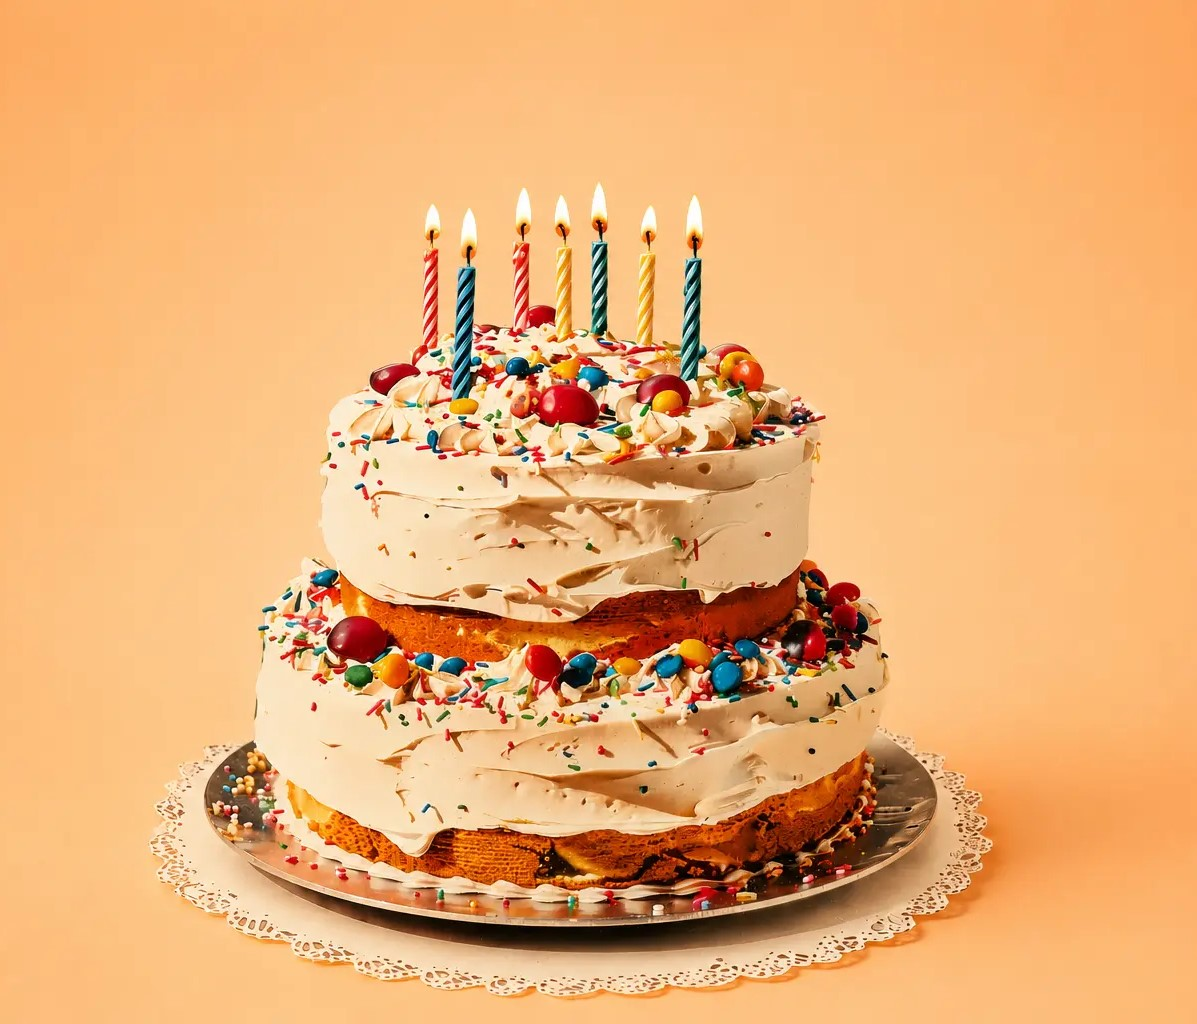
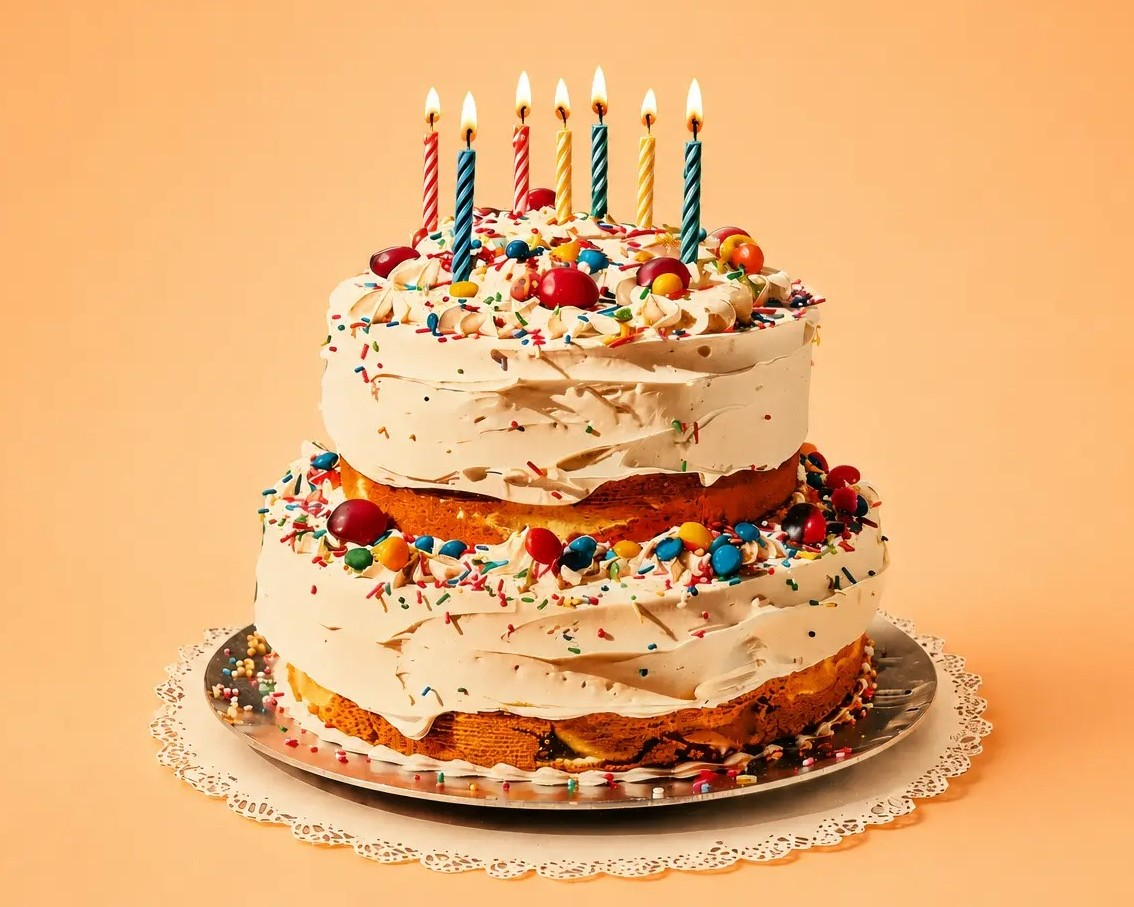
style: refine hero anchors and homepage section order

diff --git a/src/components/RabbitAssistant.tsx b/src/components/RabbitAssistant.tsx
@@ -1,21 +1,43 @@
 'use client'
 
-import { useState, useEffect, startTransition } from 'react'
+import { useState, useEffect, useRef, startTransition } from 'react'
 import Image from 'next/image'
 import { usePathname } from 'next/navigation'
 
 export default function RabbitAssistant() {
   const pathname = usePathname()
   const [mounted, setMounted] = useState(false)
+  const [scrollY, setScrollY] = useState(0)
+  const rafRef = useRef<number | null>(null)
 
   useEffect(() => {
     startTransition(() => { setMounted(true) })
   }, [])
 
+  useEffect(() => {
+    const onScroll = () => {
+      if (rafRef.current) return
+      rafRef.current = requestAnimationFrame(() => {
+        setScrollY(window.scrollY)
+        rafRef.current = null
+      })
+    }
+    window.addEventListener('scroll', onScroll, { passive: true })
+    return () => {
+      window.removeEventListener('scroll', onScroll)
+      if (rafRef.current) cancelAnimationFrame(rafRef.current)
+    }
+  }, [])
+
   if (!mounted || pathname.startsWith('/admin')) return null
 
+  const translateY = Math.min(scrollY * 0.04, 28)
+
   return (
-    <div className="fixed bottom-6 right-6 z-40 flex flex-col items-end gap-2">
+    <div
+      className="fixed bottom-6 right-6 z-40 flex flex-col items-end gap-2 max-w-[calc(100vw-1.5rem)]"
+      style={{ transform: `translateY(-${translateY}px)` }}
+    >
       <a
         href="https://wa.me/201000000000?text=Hi%20GATHER%2C%20I%20need%20help%20with%20my%20order."
         target="_blank"
@@ -25,13 +47,13 @@ export default function RabbitAssistant() {
         <span className="bg-white text-[#171717] text-xs sm:text-sm font-bold px-3 sm:px-4 py-1.5 sm:py-2 rounded-full shadow-lg whitespace-nowrap">
           Need help?
         </span>
-        <div className="w-[48px] h-[48px] sm:w-[68px] sm:h-[68px] shrink-0 rounded-full bg-[#fff4e8] border-2 border-[#FE7501] flex items-center justify-center shadow-lg hover:shadow-xl transition-shadow cursor-pointer overflow-hidden">
+        <div className="w-[56px] h-[56px] sm:w-[80px] sm:h-[80px] shrink-0 rounded-full bg-[#fff4e8] border-2 border-[#FE7501] flex items-center justify-center shadow-lg hover:shadow-xl transition-shadow cursor-pointer overflow-hidden">
           <Image
             src="/assets/gather/rabbit/favicon.png"
             alt="Gather Rabbit"
-            width={40}
-            height={40}
-            className="object-contain sm:w-[56px] sm:h-[56px]"
+            width={44}
+            height={44}
+            className="object-contain sm:w-[64px] sm:h-[64px]"
           />
         </div>
       </a>

diff --git a/src/components/sections/HeroSlideshow.tsx b/src/components/sections/HeroSlideshow.tsx
@@ -1,7 +1,7 @@
 'use client'
 
 import { useState, useEffect, useCallback, useRef } from 'react'
-import Link from 'next/link'
+
 import gsap from 'gsap'
 
 const SLIDES = [
@@ -124,8 +124,8 @@ export default function HeroSlideshow() {
               data-hero-copy
               className="mt-[clamp(1rem,2.2vw,1.75rem)] flex flex-col items-center gap-[clamp(0.6rem,1.2vw,1rem)] min-[420px]:flex-row min-[420px]:justify-center sm:items-stretch sm:justify-start"
             >
-              <Link
-                href="/shop-by-category"
+              <a
+                href="#featured-gifts"
                 className="inline-flex items-center justify-center rounded-full bg-[#FE7501] font-black text-white shadow-[2px_3px_0_rgba(0,0,0,0.72)] transition-all duration-200 hover:-translate-y-0.5 hover:bg-[#DB7100]"
                 style={{
                   minHeight: 'clamp(2.4rem, 3.7vw, 2.8rem)',
@@ -135,9 +135,9 @@ export default function HeroSlideshow() {
                 }}
               >
                 Shop Now
-              </Link>
-              <Link
-                href="/shop-by-occasion"
+              </a>
+              <a
+                href="#shop-by-occasion"
                 className="inline-flex items-center justify-center rounded-full border-2 border-[#FE7501] bg-white font-black text-[#171717] shadow-[2px_3px_0_rgba(0,0,0,0.62)] transition-all duration-200 hover:-translate-y-0.5 hover:bg-[#fff4e8]"
                 style={{
                   minHeight: 'clamp(2.4rem, 3.7vw, 2.8rem)',
@@ -147,7 +147,7 @@ export default function HeroSlideshow() {
                 }}
               >
                 Shop by Occasion
-              </Link>
+              </a>
             </div>
           </div>
         </div>

diff --git a/src/components/sections/OccasionGridSection.tsx b/src/components/sections/OccasionGridSection.tsx
@@ -15,7 +15,7 @@ export default function OccasionGridSection({
   if (occasions.length === 0) return null
 
   return (
-    <section className="relative w-full py-12 lg:py-16 overflow-hidden bg-[#FDF6EE]">
+    <section id="shop-by-occasion" className="relative w-full py-12 lg:py-16 overflow-hidden bg-[#FDF6EE] scroll-mt-20 lg:scroll-mt-24">
       <div className="absolute -bottom-8 -right-8 w-64 h-64 sm:w-80 sm:h-80 opacity-40 pointer-events-none select-none">
         <img
           src="/assets/gather/occasions/decoration.svg"

diff --git a/src/components/sections/ProductGridSection.tsx b/src/components/sections/ProductGridSection.tsx
@@ -34,7 +34,7 @@ export default function ProductGridSection({
   if (products.length === 0) return null
 
   return (
-    <section className="w-full py-12 lg:py-16">
+    <section id="featured-gifts" className="w-full py-12 lg:py-16 scroll-mt-20 lg:scroll-mt-24">
       <div className="max-w-7xl mx-auto px-4 sm:px-6 lg:px-8">
         <div className="text-center mb-8 lg:mb-10">
           <AnimatedTitle